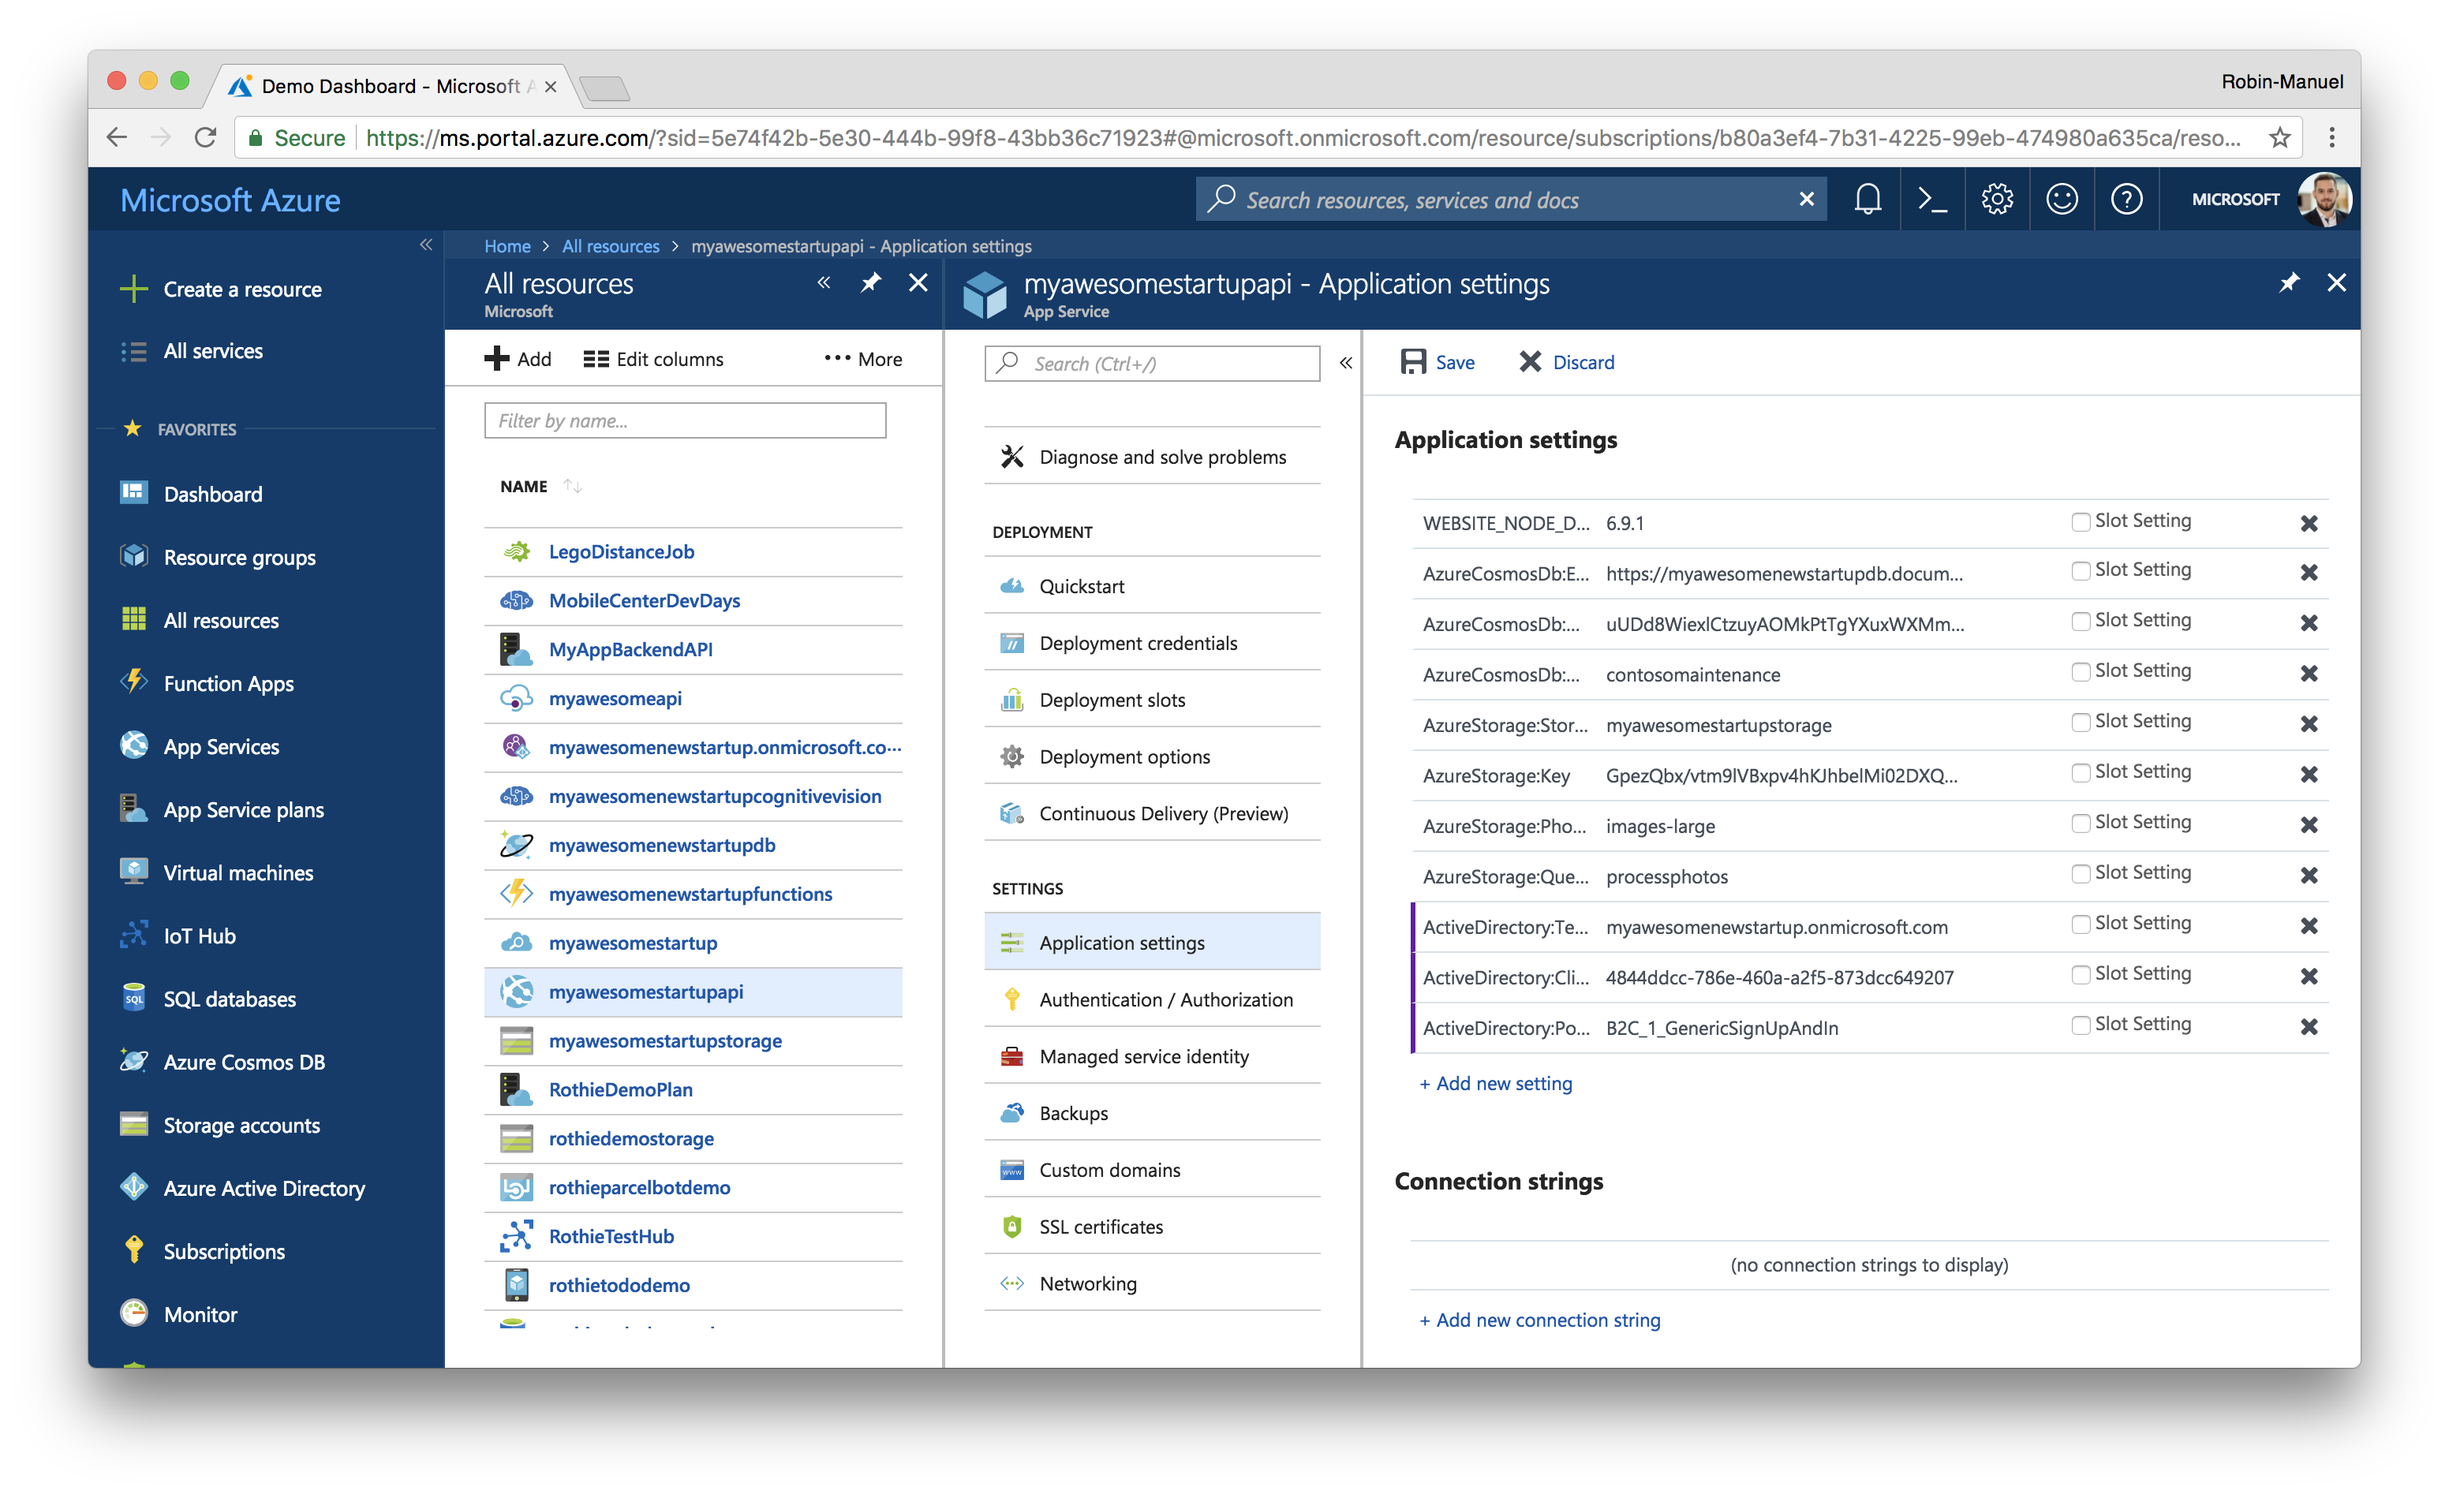
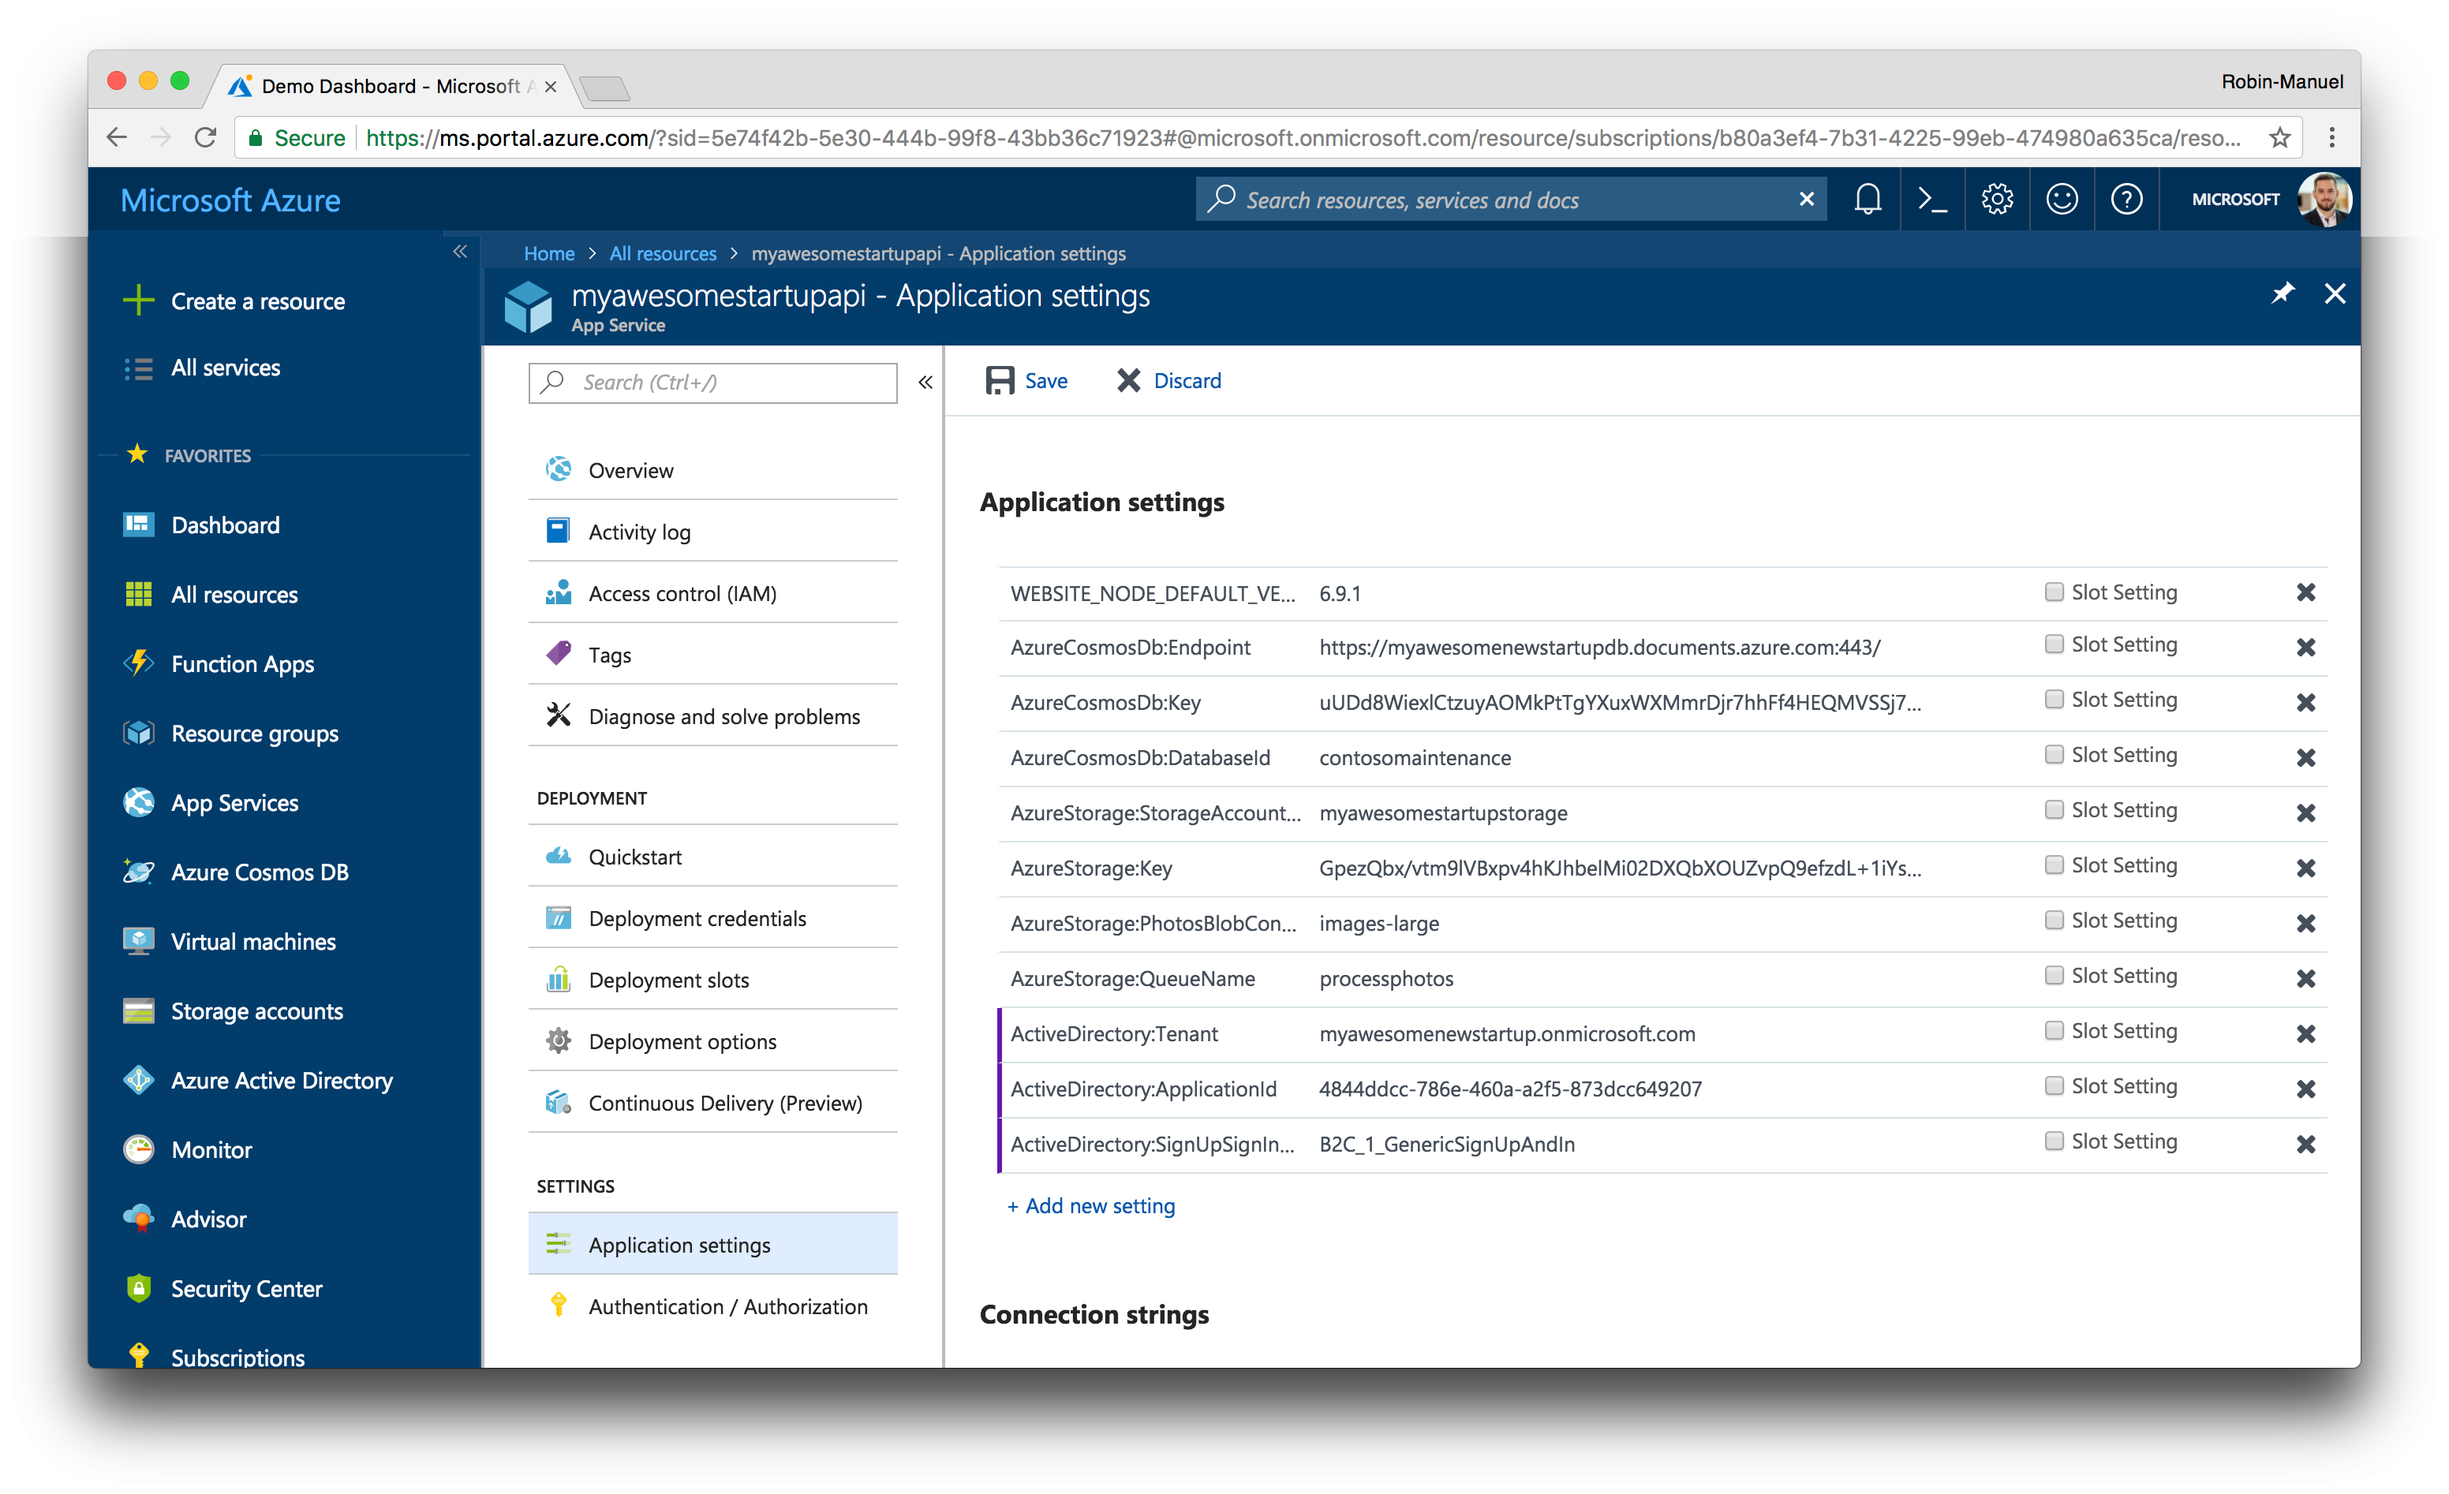
Adjust AD config names #20

Changed region(s): [[0.0, 0.1558, 1.0, 0.9657], [0.7188, 0.8411, 0.8125, 0.8722], [0.5625, 0.2804, 0.6562, 0.3115]]

diff --git a/Backend/Monolithic/Startup.cs b/Backend/Monolithic/Startup.cs
@@ -52,14 +52,14 @@ namespace ContosoMaintenance.WebAPI
             .AddJwtBearer(options =>
             {
                 options.RequireHttpsMetadata = false;
-                options.Audience = Configuration["ActiveDirectory:ClientId"];
+                options.Audience = Configuration["ActiveDirectory:ApplicationId"];
                 options.Events = new JwtBearerEvents
                 {
                     OnAuthenticationFailed = AuthenticationFailed
                 };
 
                 var authorityBase = $"https://login.microsoftonline.com/tfp/{Configuration["ActiveDirectory:Tenant"]}/";
-                options.Authority = $"{authorityBase}{Configuration["ActiveDirectory:Policy"]}/v2.0/";
+                options.Authority = $"{authorityBase}{Configuration["ActiveDirectory:SignUpSignInPolicy"]}/v2.0/";
             });
 
             services.AddMvc();

diff --git a/Walkthrough Guide/12_Authentication/README.md b/Walkthrough Guide/12_Authentication/README.md
@@ -90,7 +90,7 @@ Create your first policy with the inputs below and confirm your selections with 
 - **Name:** GenericSignUpSignIn
 - **Identity providers:** Email signup
 - **Sign-up attributes:** Display Name
-- **Application claims:** Display Name, Identity Provider, User's Object ID
+- **Application claims:** Display Name, Email Addresses, Identity Provider, User's Object ID
 - **Multifactor authentication:** Off
 - **Page UI customization:** Default
 
@@ -163,14 +163,14 @@ public void ConfigureServices(IServiceCollection services)
     .AddJwtBearer(options =>
     {
         options.RequireHttpsMetadata = false;
-        options.Audience = Configuration["ActiveDirectory:ClientId"];
+        options.Audience = Configuration["ActiveDirectory:ApplicationId"];
         options.Events = new JwtBearerEvents
         {
             OnAuthenticationFailed = AuthenticationFailed
         };
 
         var authorityBase = $"https://login.microsoftonline.com/tfp/{Configuration["ActiveDirectory:Tenant"]}/";
-        options.Authority = $"{authorityBase}{Configuration["ActiveDirectory:Policy"]}/v2.0/";
+        options.Authority = $"{authorityBase}{Configuration["ActiveDirectory:SignUpSignInPolicy"]}/v2.0/";
     });
 
     // ...
@@ -184,8 +184,8 @@ As you can see, we use `Configuration` variables one more time to not hard code 
 ```json
 "ActiveDirectory": {
     "Tenant": "",
-    "ClientId": "",
-    "Policy": ""
+    "ApplicationId": "",
+    "SignUpSignInPolicy": ""
 }
 ```
 
@@ -194,8 +194,8 @@ As you can see, we use `Configuration` variables one more time to not hard code 
 So let's set these variables to the correct values an head back to our App Service, open the ***Application Settings*** and add these variables here as we did before for CosmosDB and Storage.
 
 - **`ActiveDirectory:Tenant`:** "{OUR_AD}.onmicrosoft.com"
-- **`ActiveDirectory:ClientId`:** *{ID_OF_THE_REGISTERED_APPLICATION}*
-- **`ActiveDirectory:Policy`:** B2C_1_GenericSignUpSignIn
+- **`ActiveDirectory:ApplicationId`:** *{ID_OF_THE_REGISTERED_APPLICATION}*
+- **`ActiveDirectory:SignUpSignInPolicy`:** B2C_1_GenericSignUpSignIn
 
 ![Add ADB2C Settings to Azure App Service Settings](Assets/AddADB2CSettings.png)
 
@@ -239,13 +239,13 @@ public static class Constants
 
     // Azure Active Directory B2C
     public static string Tenant = "myawesomenewstartup.onmicrosoft.com";
-    public static string ClientID = "{ID_OF_THE_REGISTERED_APPLICATION}";
+    public static string ApplicationID = "{ID_OF_THE_REGISTERED_APPLICATION}";
     public static string SignUpAndInPolicy = "B2C_1_GenericSignUpSignIn";
     public static string[] Scopes = { "https://myawesomenewstartup.onmicrosoft.com/backend/read_only" };
 }
 ```
 
-[View in project](/Mobile/ContosoFieldService.Core/Helpers/Constants.cs#L13-L16)
+[View in project](/Mobile/ContosoFieldService.Core/Helpers/Constants.cs#L15-L18)
 
 
 ### 5.1 iOS specific steps
@@ -347,7 +347,6 @@ To avoid that the user has to login and acquire a new token every 30 minutes, th
 The App tries to refresh the Access Token automatically when it receives a `401 Unauthorized` response and only shows the Login UI to the user if the background refresh failed.
 
 Check out the [Mobile Network Services](/Walkthrough%20Guide/09_Mobile_Network_Services/) guide for additional details about resilient networking.
-
 
 # Additional Resouces
 
